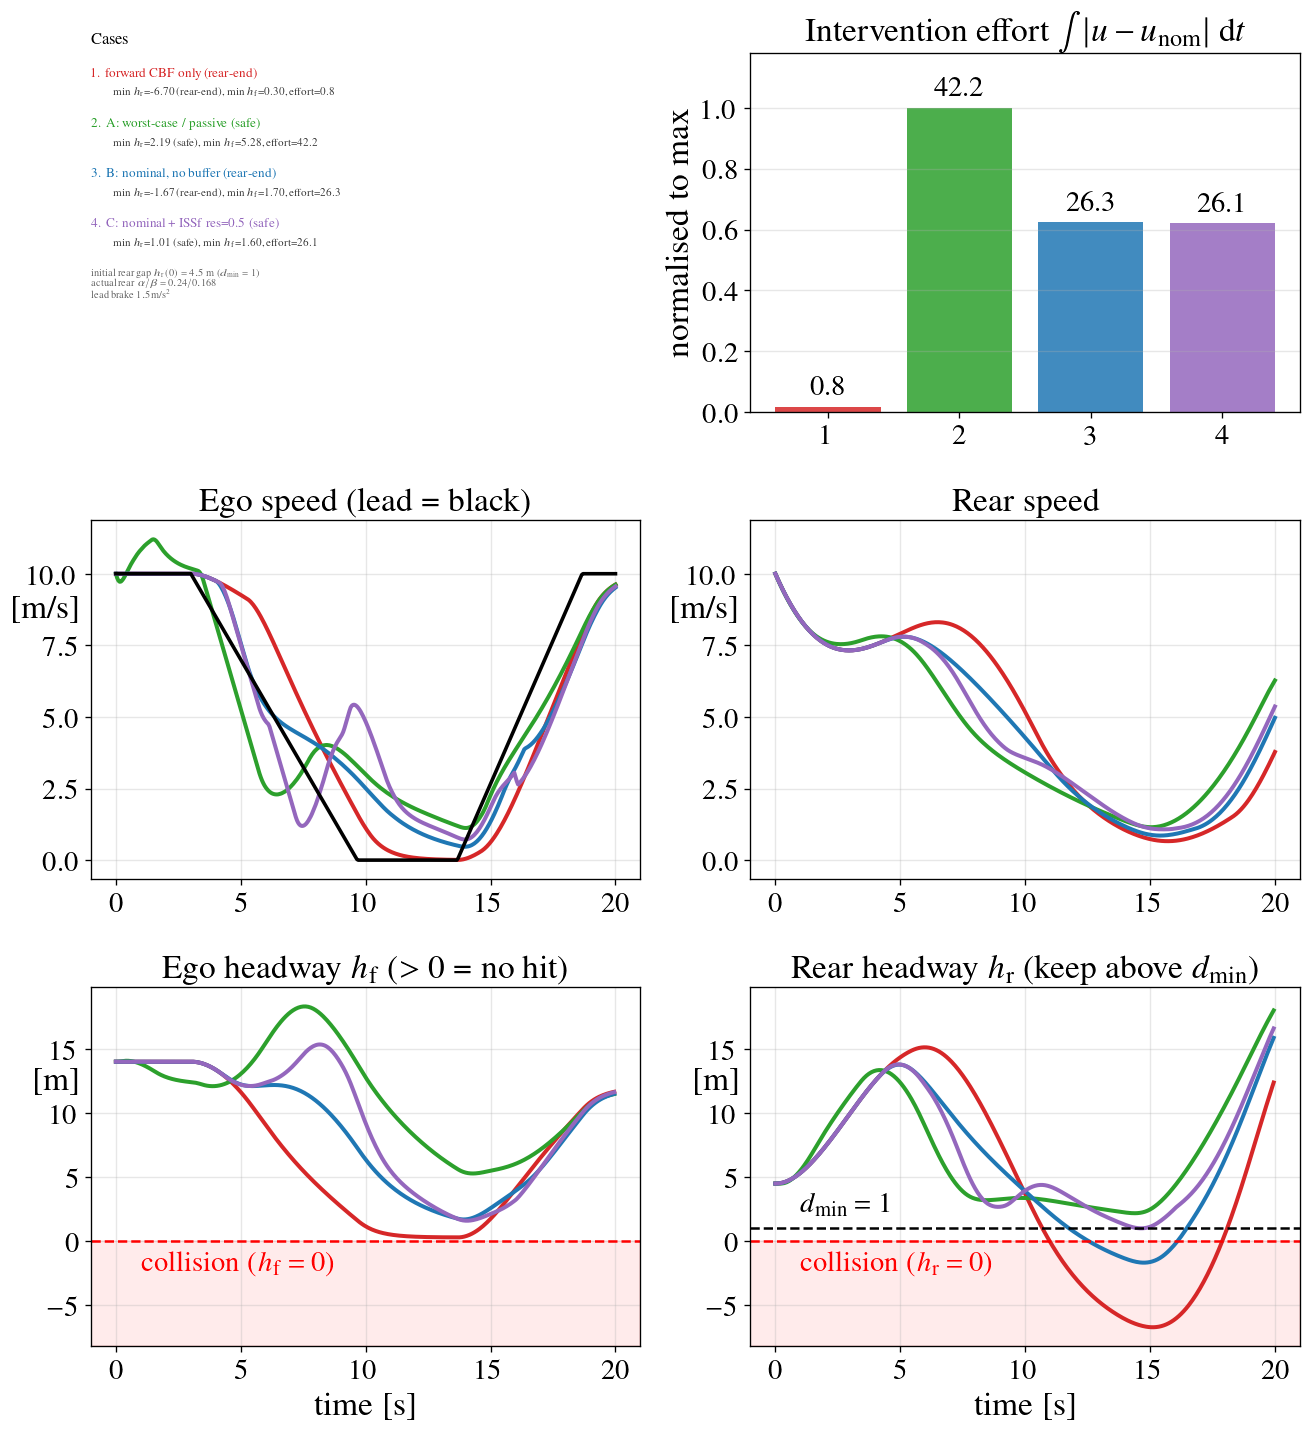
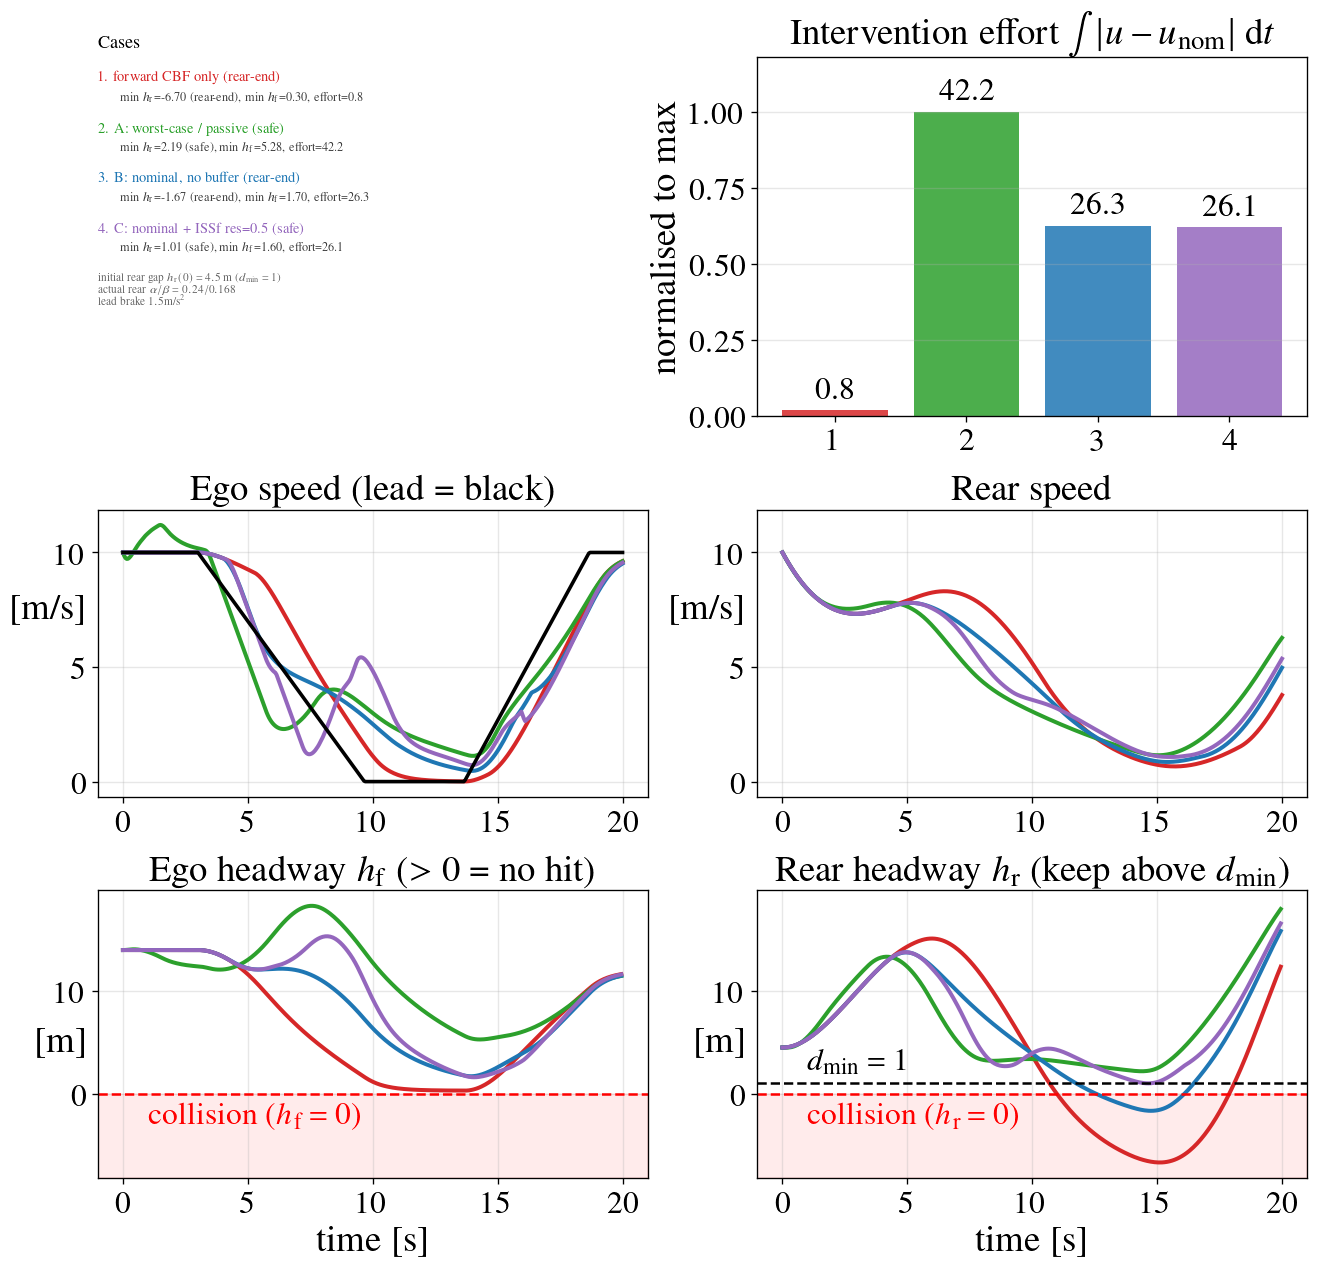
fine adjust the story picture size

diff --git a/examples/rear_aware/plot_story_sandwich.py b/examples/rear_aware/plot_story_sandwich.py
@@ -102,9 +102,9 @@ def main():
 
     tex = not args.no_latex
     _set_paper_style() if tex else _set_plain_style()
-    S = 1.2 * 1.2    # 1.2x larger fonts on every panel except the text panel (panel 1)
+    S = 1.2 * 1.2 * 1.1    # 1.2x base, then a further 1.1x for the compact proposal figure
     LBL_FS, TTL_FS, LEG_FS, NUM_FS = 14 * S, 14 * S, 12 * S, 12 * S
-    TXT_FS = 8.0    # fixed (independent of S): small on purpose, room for manual overlay
+    TXT_FS = 8.0 * 1.1    # small on purpose (room for manual overlay), matched 1.1x bump
 
     # Mode-aware math/label fragments.
     HF = r'$h_{\rm f}$' if tex else 'h_f'
@@ -124,8 +124,10 @@ def main():
 
     # ---- layout: 3 rows x 2 cols --------------------------------------------------
     #   row 1: case text | effort bar    row 2: ego speed | rear speed    row 3: h_f | h_r
-    fig = plt.figure(figsize=(13, 14))
-    gs = fig.add_gridspec(3, 2, hspace=0.30, wspace=0.20)
+    # Compact proposal layout: rows 2 & 3 shrunk to 0.8 of row 1 -> figure height
+    # scaled to (1+0.8+0.8)/3 of the original 14 in.
+    fig = plt.figure(figsize=(13, 14 * (2.6 / 3.0)))
+    gs = fig.add_gridspec(3, 2, height_ratios=[1.0, 0.8, 0.8], hspace=0.30, wspace=0.20)
     ax_txt = fig.add_subplot(gs[0, 0])    # case legend / text
     ax_bar = fig.add_subplot(gs[0, 1])    # effort bar
     ax_ve = fig.add_subplot(gs[1, 0])     # ego speed + lead
